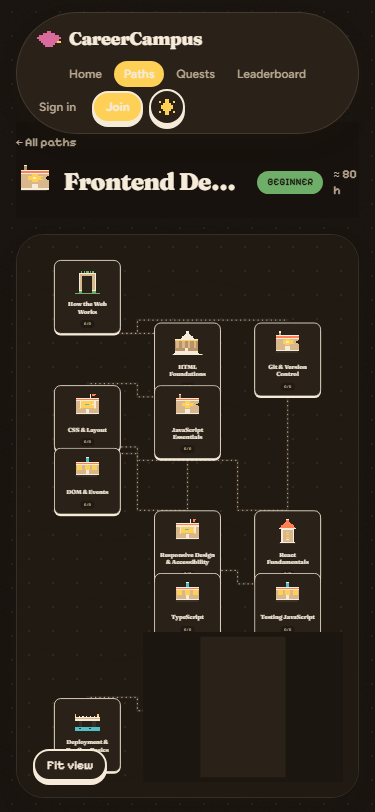
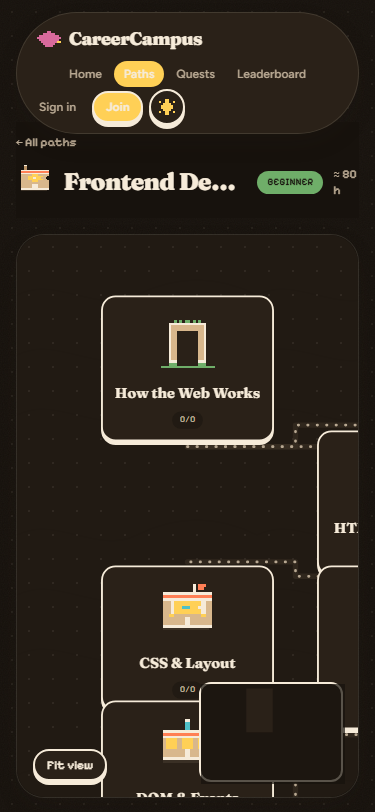
fix(trail-map): trailhead start zoom + floating node drawer card
- Trail Map opened at fit-all zoom (~0.4 at laptop sizes) so node titles
  were unreadable. Now opens at 0.9 zoom centred on the first stop (guests)
  or the learner's current node (authed); pan/zoom to explore, Fit view for
  the full map, MiniMap for orientation (spec 9A: pannable trail).
- Node tiles w-40 -> w-48 with text-base titles; MiniMap gets the sticker
  border, rounded corners and a fixed 144x100 size.
- Node drawer was anchored at top:0, hiding the node title behind the
  floating nav bar. Now a floating sticker card below the nav (top-20, right
  margin, rounded, 2px ink border + hard shadow), sliding in from the right
  on desktop; mobile bottom sheet unchanged.
- Test infra: matchMedia mock in test setup (jsdom), setCenter added to the
  @xyflow/react mock in RoadmapPage.test.
- Refreshed phase-2 trail-map QA screenshots; PROGRESS.md updated.

Verified: Vitest 13 files / 60 tests, ESLint + Prettier clean, tsc clean;
screenshots re-captured at 375/768/1280 x light/dark and visually reviewed

diff --git a/frontend/src/components/trail/TrailMap.tsx b/frontend/src/components/trail/TrailMap.tsx
@@ -1,5 +1,5 @@
 import '@xyflow/react/dist/style.css';
-import { useMemo } from 'react';
+import { useEffect, useMemo, useState } from 'react';
 import { MiniMap, ReactFlow, useReactFlow } from '@xyflow/react';
 import type { Edge, EdgeTypes, Node, NodeTypes } from '@xyflow/react';
 import type { RoadmapDetail } from '@/api/types';
@@ -16,6 +16,13 @@ import { TrailNode, type TrailNodeData } from './TrailNode';
 const nodeTypes = { trail: TrailNode } satisfies NodeTypes;
 const edgeTypes = { trail: TrailEdge } satisfies EdgeTypes;
 
+/** Node tile is w-48 (192px) × ~190px — flow-space centre offsets. */
+const NODE_CENTER_X = 96;
+const NODE_CENTER_Y = 95;
+/** Place the focus node in the upper third so the trail ahead is visible. */
+const FOCUS_OFFSET_Y = 150;
+const START_ZOOM = 0.9;
+
 interface TrailMapProps {
     detail: RoadmapDetail;
     variant: SceneVariant;
@@ -25,7 +32,8 @@ interface TrailMapProps {
 }
 
 export function TrailMap({ detail, variant, authed, onOpen }: TrailMapProps): JSX.Element {
-    const { fitView } = useReactFlow();
+    const { fitView, setCenter } = useReactFlow();
+    const [centered, setCentered] = useState(false);
 
     const nodes = useMemo<Node<TrailNodeData, 'trail'>[]>(
         () =>
@@ -53,6 +61,32 @@ export function TrailMap({ detail, variant, authed, onOpen }: TrailMapProps): JS
         }));
     }, [detail, authed]);
 
+    // Open on a readable trailhead zoom instead of fitting the whole graph —
+    // a 12-node trail squashes to ~0.4 at laptop sizes, which is unreadable.
+    // Guests start at the first stop; authed users start at their current
+    // node. Explore by panning/zooming, or use "Fit view" for the full map.
+    useEffect(() => {
+        if (centered) return;
+        const targetIds = new Set(detail.edges.map((e) => e.node_id));
+        const head =
+            detail.nodes.find((n) => !targetIds.has(n.id)) ??
+            [...detail.nodes].sort((a, b) => a.sort_order - b.sort_order)[0];
+        const current = authed
+            ? (detail.nodes.find((n) => n.state === 'in_progress') ??
+              [...detail.nodes]
+                  .filter((n) => n.state === 'available')
+                  .sort((a, b) => a.sort_order - b.sort_order)[0])
+            : undefined;
+        const focus = current ?? head;
+        if (focus) {
+            setCenter(focus.pos_x + NODE_CENTER_X, focus.pos_y + NODE_CENTER_Y + FOCUS_OFFSET_Y, {
+                zoom: START_ZOOM,
+                duration: 0,
+            });
+        }
+        setCentered(true);
+    }, [centered, detail, authed, setCenter]);
+
     return (
         <div className="trail-canvas h-full w-full overflow-hidden rounded-card">
             <ReactFlow
@@ -60,7 +94,7 @@ export function TrailMap({ detail, variant, authed, onOpen }: TrailMapProps): JS
                 edges={edges}
                 nodeTypes={nodeTypes}
                 edgeTypes={edgeTypes}
-                fitView
+                defaultViewport={{ x: 0, y: 0, zoom: START_ZOOM }}
                 minZoom={0.15}
                 maxZoom={1.75}
                 nodesFocusable
@@ -73,7 +107,9 @@ export function TrailMap({ detail, variant, authed, onOpen }: TrailMapProps): JS
                 <MiniMap
                     pannable
                     zoomable
-                    className="!bg-card"
+                    position="bottom-right"
+                    style={{ width: 144, height: 100 }}
+                    className="!rounded-xl !border-2 !border-ink !bg-card"
                     maskColor="color-mix(in srgb, var(--paper) 70%, transparent)"
                     nodeColor="var(--marigold)"
                     nodeStrokeColor="var(--ink)"

diff --git a/frontend/src/components/trail/NodeDrawer.tsx b/frontend/src/components/trail/NodeDrawer.tsx
@@ -1,4 +1,4 @@
-import { useEffect } from 'react';
+import { useEffect, useState } from 'react';
 import { motion, useReducedMotion } from 'framer-motion';
 import { useNodeDetail } from '@/api/useRoadmap';
 import type { RoadmapNode, TaskDto } from '@/api/types';
@@ -25,9 +25,27 @@ interface NodeDrawerProps {
     onClose: () => void;
 }
 
+const DESKTOP_QUERY = '(min-width: 768px)';
+
+/** Minimal matchMedia hook (framer-motion v11 does not export one). */
+function useIsDesktop(): boolean {
+    const [isDesktop, setIsDesktop] = useState<boolean>(() =>
+        typeof window !== 'undefined' ? window.matchMedia(DESKTOP_QUERY).matches : true,
+    );
+    useEffect(() => {
+        const list = window.matchMedia(DESKTOP_QUERY);
+        const onChange = (): void => setIsDesktop(list.matches);
+        list.addEventListener('change', onChange);
+        setIsDesktop(list.matches);
+        return () => list.removeEventListener('change', onChange);
+    }, []);
+    return isDesktop;
+}
+
 export function NodeDrawer({ node, nodes, variant, onClose }: NodeDrawerProps): JSX.Element {
     const { data, isError, refetch } = useNodeDetail(node.id);
     const reduced = useReducedMotion();
+    const isDesktop = useIsDesktop();
 
     // Escape closes the drawer.
     useEffect(() => {
@@ -43,15 +61,20 @@ export function NodeDrawer({ node, nodes, variant, onClose }: NodeDrawerProps): 
         .map((id) => nodes.find((n) => n.id === id))
         .filter((n): n is RoadmapNode => n !== undefined);
 
+    // Bottom sheet slides up on mobile; desktop card slides in from the right.
+    const initial = isDesktop ? { opacity: 0, x: 48 } : { opacity: 0, y: 240 };
+    const animate = isDesktop ? { opacity: 1, x: 0 } : { opacity: 1, y: 0 };
+    const exit = isDesktop ? { opacity: 0, x: 48 } : { opacity: 0, y: 240 };
+
     return (
         <motion.aside
             role="dialog"
             aria-label={`Details: ${node.title}`}
-            initial={{ opacity: 0, y: 240 }}
-            animate={{ opacity: 1, y: 0 }}
-            exit={{ opacity: 0, y: 240 }}
+            initial={initial}
+            animate={animate}
+            exit={exit}
             transition={reduced ? { duration: 0 } : { type: 'tween', duration: 0.25, ease: 'easeOut' }}
-            className="fixed inset-x-0 bottom-0 z-40 max-h-[75vh] overflow-y-auto rounded-t-3xl border-t-2 border-ink bg-card p-5 shadow-2xl md:inset-y-0 md:bottom-auto md:left-auto md:right-0 md:max-h-full md:w-96 md:rounded-none md:border-l-2 md:border-t-0"
+            className="fixed inset-x-0 bottom-0 z-40 max-h-[75vh] overflow-y-auto rounded-t-3xl border-t-2 border-ink bg-card p-5 shadow-2xl md:top-20 md:right-5 md:bottom-6 md:left-auto md:max-h-[calc(100vh-6.5rem)] md:w-[24rem] md:max-w-[calc(100vw-2.5rem)] md:rounded-card md:border-2 md:shadow-[0_4px_0_var(--ink)]"
         >
             <header className="flex items-start gap-3">
                 <PixelSprite sprite={art} scale={2} />

diff --git a/frontend/src/components/trail/TrailNode.tsx b/frontend/src/components/trail/TrailNode.tsx
@@ -89,7 +89,7 @@ export function TrailNode({ id, data, selected }: NodeProps<TrailFlowNode>): JSX
                 aria-label={label}
                 onClick={open}
                 onKeyDown={onKeyDown}
-                className={`sticker relative w-40 cursor-pointer rounded-2xl bg-card px-3 pb-3 pt-4 text-center focus:outline-none focus-visible:ring-2 focus-visible:ring-marigold ${
+                className={`sticker relative w-48 cursor-pointer rounded-2xl bg-card px-3 pb-3 pt-4 text-center focus:outline-none focus-visible:ring-2 focus-visible:ring-marigold ${
                     selected ? 'ring-2 ring-marigold' : ''
                 }`}
             >
@@ -122,7 +122,9 @@ export function TrailNode({ id, data, selected }: NodeProps<TrailFlowNode>): JSX
                         </span>
                     )}
                 </div>
-                <p className="font-display mt-2 line-clamp-2 text-sm font-bold leading-tight">{node.title}</p>
+                <p className="font-display mt-2 line-clamp-2 text-base font-bold leading-tight">
+                    {node.title}
+                </p>
                 <p className="mt-1.5">
                     <span className="inline-flex items-center gap-1 rounded-pill bg-paper-2 px-2 py-0.5 font-pixel text-[10px] text-ink-soft">
                         {node.completed_tasks}/{node.total_tasks}

diff --git a/frontend/src/test/setup.ts b/frontend/src/test/setup.ts
@@ -1,1 +1,16 @@
 import '@testing-library/jest-dom/vitest';
+
+// jsdom has no matchMedia — framer-motion's useMediaQuery needs it.
+Object.defineProperty(window, 'matchMedia', {
+    writable: true,
+    value: (query: string) => ({
+        matches: false,
+        media: query,
+        onchange: null,
+        addListener: () => {},
+        removeListener: () => {},
+        addEventListener: () => {},
+        removeEventListener: () => {},
+        dispatchEvent: () => false,
+    }),
+});

diff --git a/frontend/src/pages/RoadmapPage.test.tsx b/frontend/src/pages/RoadmapPage.test.tsx
@@ -34,7 +34,7 @@ vi.mock('@xyflow/react', () => ({
     ),
     MiniMap: () => null,
     ReactFlowProvider: ({ children }: { children: ReactNode }) => <>{children}</>,
-    useReactFlow: () => ({ fitView: vi.fn() }),
+    useReactFlow: () => ({ fitView: vi.fn(), setCenter: vi.fn() }),
     Handle: () => null,
     Position: { Top: 'Top', Bottom: 'Bottom' },
 }));

diff --git a/docs/PROGRESS.md b/docs/PROGRESS.md
@@ -108,8 +108,9 @@ All four are documented in `docs/DECISIONS.md`.
       init script). Visual review passed: parchment Trail Map with dotted-trail
       edges and landmark sprites (no default-flowchart look), dusk hero variant,
       catalog theme tints; guest preview state renders neutral (no fog/lock).
-      Minor polish noted for Phase 6: the React Flow mini-map panel looks
-      unstyled on the parchment background; nav bar wraps to two rows at 375px.
+      Trail-map frames refreshed 2026-10-19 after the trailhead-zoom + node
+      drawer fix (below).
+      Minor polish noted for Phase 6: nav bar wraps to two rows at 375px.
 - [x] Full gate from the root: `npm run lint` → PHPStan L6 `[OK] No errors`,
       PHP-CS-Fixer `0 files to fix`, ESLint + Prettier clean; `npm run test` →
       backend PHPUnit `OK (59 tests, 1824 assertions)`, frontend Vitest
@@ -122,6 +123,19 @@ All four are documented in `docs/DECISIONS.md`.
 - The skeleton checker shimmer was not stopped under
   `prefers-reduced-motion: reduce` — added `.animate-checker-shimmer` to the
   reduced-motion rule (spec §9A.9).
+- Trail Map opened at fit-all zoom — a 12-node trail squashes to ~0.4 at
+  laptop sizes, so node titles were unreadable. Replaced the auto
+  fit-to-view with a trailhead start: the map now opens at 0.9 zoom centred
+  on the first stop (guests) or the learner's current node (authed); pan/zoom
+  to explore, "Fit view" for the full map, MiniMap for orientation. Node
+  tiles grew `w-40` → `w-48` with `text-base` titles; the MiniMap got the
+  sticker border, rounded corners and a fixed 144×100 size (2026-10-19).
+- The node drawer was anchored at `top: 0`, hiding the node title behind the
+  floating nav bar. It is now a floating sticker card below the nav
+  (`top-20`, right margin, rounded, 2px ink border + hard shadow) that slides
+  in from the right on desktop; the mobile bottom sheet is unchanged
+  (2026-10-19). Frontend gate re-verified after both fixes: Vitest
+  `13 files / 60 tests passed`, ESLint + Prettier clean, `tsc --noEmit` clean.
 
 ### Handoff
 - Read-only content flow is done: landing → catalog → Trail Map, guest and
